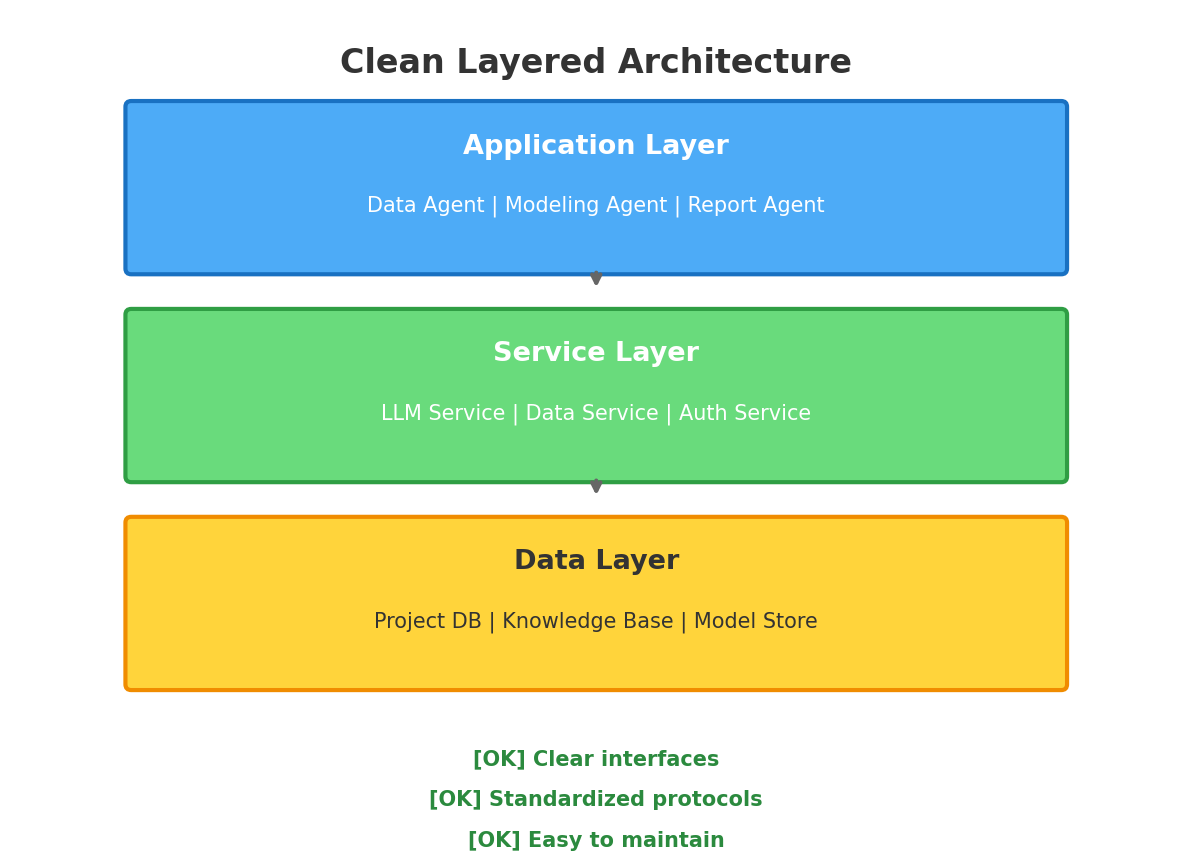
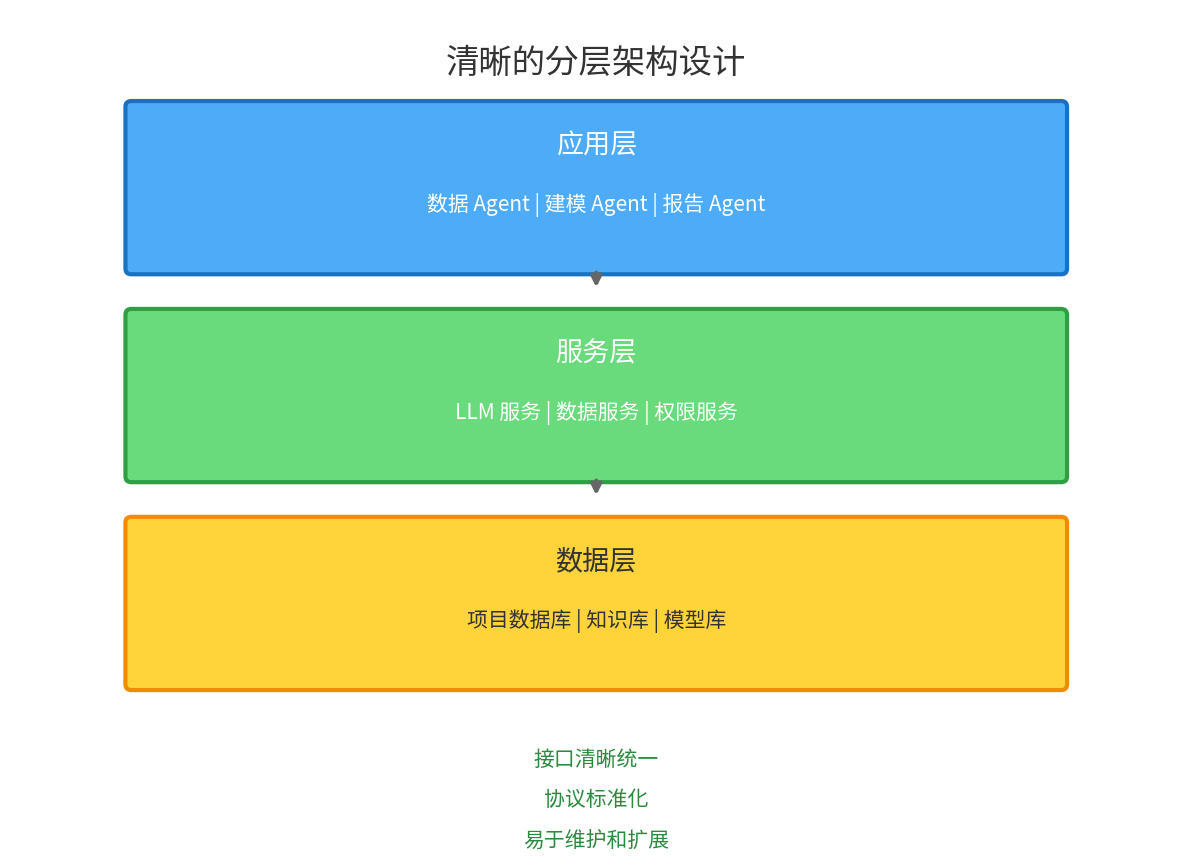
配图改为中文：更新5张插图并修复中文字体
- 使用 Noto Sans CJK 思源黑体显示中文
- 所有文字内容翻译为中文
- 图1: 各自为战的混乱局面
- 图2: 分层架构设计
- 图3: AI时代架构师核心职责
- 图4: 5个核心职责
- 图5: 成功vs失败对比
- 更新配图生成脚本支持中文

diff --git a/articles/assets/generate_figures.py b/articles/assets/generate_figures.py
@@ -1,15 +1,18 @@
 #!/usr/bin/env python3
-"""Generate WeChat article illustrations for OpenClaw Architect article."""
+# -*- coding: utf-8 -*-
+"""生成微信公众号文章配图 - 中文版本"""
 
 import matplotlib.pyplot as plt
 import matplotlib.patches as mpatches
 from matplotlib.patches import FancyBboxPatch, Circle, Rectangle, FancyArrowPatch
+import matplotlib.font_manager as fm
 import numpy as np
 import os
 
-# Set Chinese font
-plt.rcParams['font.sans-serif'] = ['DejaVu Sans', 'SimHei', 'Arial Unicode MS', 'sans-serif']
-plt.rcParams['axes.unicode_minus'] = False
+# 直接加载中文字体文件
+font_path = '/usr/share/fonts/opentype/noto/NotoSansCJK-Regular.ttc'
+chinese_font = fm.FontProperties(fname=font_path)
+chinese_font_bold = fm.FontProperties(fname=font_path, weight='bold')
 
 ASSETS_DIR = "/root/.openclaw/workspace/HEBook/articles/assets"
 
@@ -17,102 +20,102 @@ def save_fig(fig, filename):
     filepath = os.path.join(ASSETS_DIR, filename)
     fig.savefig(filepath, dpi=150, bbox_inches='tight', facecolor='white', edgecolor='none')
     plt.close(fig)
-    print(f"Generated: {filepath}")
+    print(f"已生成: {filepath}")
 
 def fig1_isolated_agents():
-    """图1: 各自为战的混乱局面 - 三个独立的Agent孤岛"""
+    """图1: 各自为战的混乱局面"""
     fig, ax = plt.subplots(1, 1, figsize=(10, 6))
     ax.set_xlim(0, 10)
     ax.set_ylim(0, 6)
     ax.axis('off')
     
-    # Title
-    ax.text(5, 5.5, 'No Architecture = Chaos', fontsize=16, fontweight='bold', 
+    # 标题
+    ax.text(5, 5.5, '缺少架构 = 混乱', fontsize=16, fontproperties=chinese_font_bold, 
             ha='center', color='#333333')
-    ax.text(5, 5.1, 'Three Agents Working in Isolation', fontsize=11, 
-            ha='center', color='#666666')
+    ax.text(5, 5.1, '三个 Agent 各自为战，无法协作', fontsize=11, 
+            fontproperties=chinese_font, ha='center', color='#666666')
     
-    # Agent A - Data Cleaning (left)
+    # Agent A - 数据清洗（左）
     box_a = FancyBboxPatch((0.5, 2.5), 2.2, 2, boxstyle="round,pad=0.05", 
                            facecolor='#FF6B6B', edgecolor='#C92A2A', linewidth=2, alpha=0.9)
     ax.add_patch(box_a)
-    ax.text(1.6, 3.8, 'Agent A', fontsize=12, fontweight='bold', ha='center', color='white')
-    ax.text(1.6, 3.3, 'Data Cleaning', fontsize=10, ha='center', color='white')
-    ax.text(1.6, 2.8, 'Python + CSV', fontsize=9, ha='center', color='#FFE0E0')
+    ax.text(1.6, 3.8, '工程师 A', fontsize=11, fontproperties=chinese_font_bold, ha='center', color='white')
+    ax.text(1.6, 3.3, '数据清洗 Agent', fontsize=10, fontproperties=chinese_font, ha='center', color='white')
+    ax.text(1.6, 2.8, 'Python + CSV 格式', fontsize=9, fontproperties=chinese_font, ha='center', color='#FFE0E0')
     
-    # Agent B - Validation (center)
+    # Agent B - 数据校验（中）
     box_b = FancyBboxPatch((3.8, 2.5), 2.2, 2, boxstyle="round,pad=0.05",
                            facecolor='#4ECDC4', edgecolor='#087F5B', linewidth=2, alpha=0.9)
     ax.add_patch(box_b)
-    ax.text(4.9, 3.8, 'Agent B', fontsize=12, fontweight='bold', ha='center', color='white')
-    ax.text(4.9, 3.3, 'Validation', fontsize=10, ha='center', color='white')
-    ax.text(4.9, 2.8, 'JavaScript + JSON', fontsize=9, ha='center', color='#E0F7F5')
+    ax.text(4.9, 3.8, '工程师 B', fontsize=11, fontproperties=chinese_font_bold, ha='center', color='white')
+    ax.text(4.9, 3.3, '数据校验 Agent', fontsize=10, fontproperties=chinese_font, ha='center', color='white')
+    ax.text(4.9, 2.8, 'JavaScript + JSON', fontsize=9, fontproperties=chinese_font, ha='center', color='#E0F7F5')
     
-    # Agent C - Report (right)
+    # Agent C - 报告生成（右）
     box_c = FancyBboxPatch((7.1, 2.5), 2.2, 2, boxstyle="round,pad=0.05",
                            facecolor='#95E1D3', edgecolor='#2B8A3E', linewidth=2, alpha=0.9)
     ax.add_patch(box_c)
-    ax.text(8.2, 3.8, 'Agent C', fontsize=12, fontweight='bold', ha='center', color='#333')
-    ax.text(8.2, 3.3, 'Report Gen', fontsize=10, ha='center', color='#333')
-    ax.text(8.2, 2.8, 'GPT API + String', fontsize=9, ha='center', color='#555')
+    ax.text(8.2, 3.8, '工程师 C', fontsize=11, fontproperties=chinese_font_bold, ha='center', color='#333')
+    ax.text(8.2, 3.3, '报告生成 Agent', fontsize=10, fontproperties=chinese_font, ha='center', color='#333')
+    ax.text(8.2, 2.8, 'GPT API + 字符串', fontsize=9, fontproperties=chinese_font, ha='center', color='#555')
     
-    # Confusion indicators (crossed lines)
+    # 连接线表示混乱
     ax.annotate('', xy=(3.8, 3.5), xytext=(2.7, 3.5),
                 arrowprops=dict(arrowstyle='<->', color='#FF6B6B', lw=2, ls='--'))
     ax.annotate('', xy=(7.1, 3.5), xytext=(6.0, 3.5),
                 arrowprops=dict(arrowstyle='<->', color='#FF6B6B', lw=2, ls='--'))
     
-    # Warning icons
-    ax.text(1.6, 1.8, 'X Cannot communicate', fontsize=9, ha='center', color='#C92A2A', fontweight='bold')
-    ax.text(4.9, 1.8, 'X Different formats', fontsize=9, ha='center', color='#C92A2A', fontweight='bold')
-    ax.text(8.2, 1.8, 'X No integration', fontsize=9, ha='center', color='#C92A2A', fontweight='bold')
+    # 问题标注
+    ax.text(1.6, 1.8, '数据格式不兼容', fontsize=9, fontproperties=chinese_font_bold, ha='center', color='#C92A2A')
+    ax.text(4.9, 1.8, '无法互相调用', fontsize=9, fontproperties=chinese_font_bold, ha='center', color='#C92A2A')
+    ax.text(8.2, 1.8, '缺乏统一规范', fontsize=9, fontproperties=chinese_font_bold, ha='center', color='#C92A2A')
     
     save_fig(fig, 'fig1_isolated_agents.png')
 
 def fig2_layered_architecture():
-    """图2: 分层架构设计示意图 - 三层架构"""
+    """图2: 分层架构设计示意图"""
     fig, ax = plt.subplots(1, 1, figsize=(10, 7))
     ax.set_xlim(0, 10)
     ax.set_ylim(0, 7)
     ax.axis('off')
     
-    # Title
-    ax.text(5, 6.5, 'Clean Layered Architecture', fontsize=16, fontweight='bold', 
+    # 标题
+    ax.text(5, 6.5, '清晰的分层架构设计', fontsize=16, fontproperties=chinese_font_bold, 
             ha='center', color='#333333')
     
-    # Layer 3: Application Layer
+    # 应用层
     layer3 = FancyBboxPatch((1, 4.8), 8, 1.4, boxstyle="round,pad=0.05",
                             facecolor='#4DABF7', edgecolor='#1971C2', linewidth=2)
     ax.add_patch(layer3)
-    ax.text(5, 5.8, 'Application Layer', fontsize=13, fontweight='bold', ha='center', color='white')
-    ax.text(5, 5.3, 'Data Agent | Modeling Agent | Report Agent', fontsize=10, ha='center', color='white')
+    ax.text(5, 5.8, '应用层', fontsize=13, fontproperties=chinese_font_bold, ha='center', color='white')
+    ax.text(5, 5.3, '数据 Agent | 建模 Agent | 报告 Agent', fontsize=10, fontproperties=chinese_font, ha='center', color='white')
     
-    # Arrow down
+    # 箭头
     ax.annotate('', xy=(5, 4.6), xytext=(5, 4.8),
                 arrowprops=dict(arrowstyle='->', color='#666', lw=2))
     
-    # Layer 2: Service Layer
+    # 服务层
     layer2 = FancyBboxPatch((1, 3.0), 8, 1.4, boxstyle="round,pad=0.05",
                             facecolor='#69DB7C', edgecolor='#2F9E44', linewidth=2)
     ax.add_patch(layer2)
-    ax.text(5, 4.0, 'Service Layer', fontsize=13, fontweight='bold', ha='center', color='white')
-    ax.text(5, 3.5, 'LLM Service | Data Service | Auth Service', fontsize=10, ha='center', color='white')
+    ax.text(5, 4.0, '服务层', fontsize=13, fontproperties=chinese_font_bold, ha='center', color='white')
+    ax.text(5, 3.5, 'LLM 服务 | 数据服务 | 权限服务', fontsize=10, fontproperties=chinese_font, ha='center', color='white')
     
-    # Arrow down
+    # 箭头
     ax.annotate('', xy=(5, 2.8), xytext=(5, 3.0),
                 arrowprops=dict(arrowstyle='->', color='#666', lw=2))
     
-    # Layer 1: Data Layer
+    # 数据层
     layer1 = FancyBboxPatch((1, 1.2), 8, 1.4, boxstyle="round,pad=0.05",
                             facecolor='#FFD43B', edgecolor='#F08C00', linewidth=2)
     ax.add_patch(layer1)
-    ax.text(5, 2.2, 'Data Layer', fontsize=13, fontweight='bold', ha='center', color='#333')
-    ax.text(5, 1.7, 'Project DB | Knowledge Base | Model Store', fontsize=10, ha='center', color='#333')
+    ax.text(5, 2.2, '数据层', fontsize=13, fontproperties=chinese_font_bold, ha='center', color='#333')
+    ax.text(5, 1.7, '项目数据库 | 知识库 | 模型库', fontsize=10, fontproperties=chinese_font, ha='center', color='#333')
     
-    # Benefits
-    benefits = ['[OK] Clear interfaces', '[OK] Standardized protocols', '[OK] Easy to maintain']
+    # 优势
+    benefits = ['接口清晰统一', '协议标准化', '易于维护和扩展']
     for i, benefit in enumerate(benefits):
-        ax.text(5, 0.5 - i*0.35, benefit, fontsize=10, ha='center', color='#2B8A3E', fontweight='bold')
+        ax.text(5, 0.5 - i*0.35, benefit, fontsize=10, fontproperties=chinese_font_bold, ha='center', color='#2B8A3E')
     
     save_fig(fig, 'fig2_layered_architecture.png')
 
@@ -123,39 +126,38 @@ def fig3_architect_responsibilities():
     ax.set_ylim(0, 7)
     ax.axis('off')
     
-    # Title
-    ax.text(5, 6.5, 'AI Era: Architect is More Critical Than Ever', fontsize=16, 
-            fontweight='bold', ha='center', color='#333333')
+    # 标题
+    ax.text(5, 6.5, 'AI 时代：架构师更加重要', fontsize=16, 
+            fontproperties=chinese_font_bold, ha='center', color='#333333')
     
-    # Central circle - Architect
+    # 中心圆 - 架构师
     center_circle = Circle((5, 3.5), 1.2, facecolor='#7950F2', edgecolor='#5F3DC4', linewidth=3)
     ax.add_patch(center_circle)
-    ax.text(5, 3.7, 'ARCHITECT', fontsize=11, fontweight='bold', ha='center', color='white')
-    ax.text(5, 3.2, 'Decision Maker', fontsize=9, ha='center', color='#E0D4FC')
+    ax.text(5, 3.7, '架构师', fontsize=12, fontproperties=chinese_font_bold, ha='center', color='white')
+    ax.text(5, 3.2, '决策者', fontsize=9, fontproperties=chinese_font, ha='center', color='#E0D4FC')
     
-    # Surrounding responsibilities
+    # 周围职责
     responsibilities = [
-        ('System\nIntegration', 2, 5.5, '#FF6B6B'),
-        ('Security &\nCompliance', 8, 5.5, '#4ECDC4'),
-        ('Quality\nStandards', 1.2, 3.5, '#FFD93D'),
-        ('Tech\nSelection', 8.8, 3.5, '#6BCF7F'),
-        ('Long-term\nMaintenance', 2, 1.5, '#A78BFA'),
-        ('Team\nEnablement', 8, 1.5, '#FF8F8F'),
+        ('系统\n集成', 2, 5.5, '#FF6B6B'),
+        ('安全\n合规', 8, 5.5, '#4ECDC4'),
+        ('质量\n标准', 1.2, 3.5, '#FFD93D'),
+        ('技术\n选型', 8.8, 3.5, '#6BCF7F'),
+        ('长期\n维护', 2, 1.5, '#A78BFA'),
+        ('团队\n赋能', 8, 1.5, '#FF8F8F'),
     ]
     
     for text, x, y, color in responsibilities:
-        # Draw small circle
         small_circle = Circle((x, y), 0.7, facecolor=color, edgecolor='white', linewidth=2)
         ax.add_patch(small_circle)
-        ax.text(x, y, text, fontsize=8, ha='center', va='center', color='white', fontweight='bold')
+        ax.text(x, y, text, fontsize=9, fontproperties=chinese_font_bold, ha='center', va='center', color='white')
         
-        # Draw connection to center
+        # 连接线
         ax.annotate('', xy=(5 + (x-5)*0.25, 3.5 + (y-3.5)*0.25), xytext=(x, y),
                     arrowprops=dict(arrowstyle='->', color='#999', lw=1.5, connectionstyle='arc3,rad=0.1'))
     
-    # Bottom text
-    ax.text(5, 0.5, 'AI Writes Code -> Architect Makes It Work', fontsize=12, 
-            ha='center', color='#5F3DC4', fontweight='bold')
+    # 底部文字
+    ax.text(5, 0.5, 'AI 写代码 - 架构师确保系统可用', fontsize=12, 
+            fontproperties=chinese_font_bold, ha='center', color='#5F3DC4')
     
     save_fig(fig, 'fig3_architect_responsibilities.png')
 
@@ -166,36 +168,36 @@ def fig4_five_responsibilities():
     ax.set_ylim(0, 7)
     ax.axis('off')
     
-    # Title
-    ax.text(5, 6.5, "Architect's 5 Core Responsibilities", fontsize=16, 
-            fontweight='bold', ha='center', color='#333333')
+    # 标题
+    ax.text(5, 6.5, "架构师的 5 个核心职责", fontsize=16, 
+            fontproperties=chinese_font_bold, ha='center', color='#333333')
     
-    # Pentagon layout for 5 responsibilities
+    # 5个职责
     responsibilities = [
-        ('Architecture\nDesign', '#FF6B6B', 'From "works" to "works well"'),
-        ('Technology\nSelection', '#4ECDC4', 'Avoid "choice disasters"'),
-        ('Security &\nCompliance', '#FFD93D', 'Guard the bottom line'),
-        ('Quality\nStandards', '#6BCF7F', 'AI code needs review too'),
-        ('Team\nEnablement', '#A78BFA', 'Make everyone effective'),
+        ('架构\n设计', '#FF6B6B', '从"能用"到"好用"'),
+        ('技术\n选型', '#4ECDC4', '避免"选型灾难"'),
+        ('安全\n合规', '#FFD93D', '守住底线'),
+        ('质量\n标准', '#6BCF7F', 'AI 代码也要审查'),
+        ('团队\n赋能', '#A78BFA', '让每个人都能用好 AI'),
     ]
     
     positions = [(2, 4.5), (5, 5.5), (8, 4.5), (7, 1.8), (3, 1.8)]
     
     for i, ((title, color, desc), (x, y)) in enumerate(zip(responsibilities, positions)):
-        # Draw box
+        # 方框
         box = FancyBboxPatch((x-0.9, y-0.6), 1.8, 1.2, boxstyle="round,pad=0.05",
                              facecolor=color, edgecolor='white', linewidth=2, alpha=0.95)
         ax.add_patch(box)
         
-        # Number badge
+        # 序号徽章
         num_circle = Circle((x-0.6, y+0.3), 0.2, facecolor='white', edgecolor=color, linewidth=2)
         ax.add_patch(num_circle)
         ax.text(x-0.6, y+0.3, str(i+1), fontsize=10, ha='center', va='center', 
                 color=color, fontweight='bold')
         
-        # Title and desc
-        ax.text(x, y+0.1, title, fontsize=9, ha='center', va='center', color='white', fontweight='bold')
-        ax.text(x, y-1.1, desc, fontsize=8, ha='center', va='top', color='#555')
+        # 标题和描述
+        ax.text(x, y+0.1, title, fontsize=10, fontproperties=chinese_font_bold, ha='center', va='center', color='white')
+        ax.text(x, y-1.1, desc, fontsize=9, fontproperties=chinese_font, ha='center', va='top', color='#555')
     
     save_fig(fig, 'fig4_five_responsibilities.png')
 
@@ -206,74 +208,70 @@ def fig5_success_vs_failure():
     ax.set_ylim(0, 7)
     ax.axis('off')
     
-    # Title
-    ax.text(6, 6.5, 'With vs Without Architect: AI Transformation Outcomes', fontsize=16, 
-            fontweight='bold', ha='center', color='#333333')
+    # 标题
+    ax.text(6, 6.5, '有架构师 vs 无架构师：AI 转型结果对比', fontsize=16, 
+            fontproperties=chinese_font_bold, ha='center', color='#333333')
     
-    # Left side - FAILURE (No Architect)
-    ax.text(3, 5.8, 'WITHOUT ARCHITECT', fontsize=13, fontweight='bold', 
+    # 左侧 - 失败（无架构师）
+    ax.text(3, 5.8, '无 架 构 师', fontsize=13, fontproperties=chinese_font_bold, 
             ha='center', color='#C92A2A')
     
     failure_steps = [
-        ('Month 1', 'Chaos begins', '#FF8787'),
-        ('Month 3', 'Tech debt explodes', '#FF6B6B'),
-        ('Month 6', 'Security crisis', '#FA5252'),
-        ('Month 9', 'Project fails', '#E03131'),
+        ('第 1 月', '混乱开始', '#FF8787'),
+        ('第 3 月', '技术债爆发', '#FF6B6B'),
+        ('第 6 月', '安全危机', '#FA5252'),
+        ('第 9 月', '项目失败', '#E03131'),
     ]
     
     for i, (month, desc, color) in enumerate(failure_steps):
         y = 4.8 - i * 1.1
-        # Box
         box = FancyBboxPatch((1, y-0.35), 4, 0.7, boxstyle="round,pad=0.02",
                              facecolor=color, edgecolor='white', linewidth=1, alpha=0.9)
         ax.add_patch(box)
-        ax.text(3, y+0.1, month, fontsize=10, ha='center', color='white', fontweight='bold')
-        ax.text(3, y-0.15, desc, fontsize=9, ha='center', color='white')
+        ax.text(3, y+0.1, month, fontsize=10, fontproperties=chinese_font_bold, ha='center', color='white')
+        ax.text(3, y-0.15, desc, fontsize=9, fontproperties=chinese_font, ha='center', color='white')
         
-        # Arrow down
         if i < len(failure_steps) - 1:
             ax.annotate('', xy=(3, y-0.45), xytext=(3, y-0.7),
                         arrowprops=dict(arrowstyle='->', color='#C92A2A', lw=2))
     
-    ax.text(3, 0.5, 'Result: Project abandoned\nLoss: 9 months + opportunity', 
-            fontsize=10, ha='center', color='#C92A2A', fontweight='bold')
+    ax.text(3, 0.5, '结果：项目放弃\n损失：9个月 + 错失机会', 
+            fontsize=10, fontproperties=chinese_font_bold, ha='center', color='#C92A2A')
     
-    # Divider
+    # 分隔线
     ax.plot([6, 6], [0.5, 6], '--', color='#CCC', linewidth=2)
     
-    # Right side - SUCCESS (With Architect)
-    ax.text(9, 5.8, 'WITH ARCHITECT', fontsize=13, fontweight='bold', 
+    # 右侧 - 成功（有架构师）
+    ax.text(9, 5.8, '有 架 构 师', fontsize=13, fontproperties=chinese_font_bold, 
             ha='center', color='#2F9E44')
     
     success_steps = [
-        ('Week 1', 'Architecture design', '#69DB7C'),
-        ('Month 1', 'Standards set', '#51CF66'),
-        ('Month 2', 'Team aligned', '#40C057'),
-        ('Month 4', 'System live!', '#2F9E44'),
+        ('第 1 周', '架构设计', '#69DB7C'),
+        ('第 1 月', '规范制定', '#51CF66'),
+        ('第 2 月', '团队对齐', '#40C057'),
+        ('第 4 月', '系统上线', '#2F9E44'),
     ]
     
     for i, (month, desc, color) in enumerate(success_steps):
         y = 4.8 - i * 1.1
-        # Box
         box = FancyBboxPatch((7, y-0.35), 4, 0.7, boxstyle="round,pad=0.02",
                              facecolor=color, edgecolor='white', linewidth=1, alpha=0.9)
         ax.add_patch(box)
-        ax.text(9, y+0.1, month, fontsize=10, ha='center', color='white', fontweight='bold')
-        ax.text(9, y-0.15, desc, fontsize=9, ha='center', color='white')
+        ax.text(9, y+0.1, month, fontsize=10, fontproperties=chinese_font_bold, ha='center', color='white')
+        ax.text(9, y-0.15, desc, fontsize=9, fontproperties=chinese_font, ha='center', color='white')
         
-        # Arrow down
         if i < len(success_steps) - 1:
             ax.annotate('', xy=(9, y-0.45), xytext=(9, y-0.7),
                         arrowprops=dict(arrowstyle='->', color='#2F9E44', lw=2))
     
-    ax.text(9, 0.5, 'Result: Success in 4 months\nROI: Efficiency unlocked', 
-            fontsize=10, ha='center', color='#2F9E44', fontweight='bold')
+    ax.text(9, 0.5, '结果：4个月成功上线\n收益：效率全面提升', 
+            fontsize=10, fontproperties=chinese_font_bold, ha='center', color='#2F9E44')
     
     save_fig(fig, 'fig5_success_vs_failure.png')
 
 if __name__ == '__main__':
     os.makedirs(ASSETS_DIR, exist_ok=True)
-    print("Generating WeChat article illustrations...")
+    print("正在生成中文配图...")
     
     fig1_isolated_agents()
     fig2_layered_architecture()
@@ -281,5 +279,5 @@ if __name__ == '__main__':
     fig4_five_responsibilities()
     fig5_success_vs_failure()
     
-    print("\nAll illustrations generated successfully!")
-    print(f"Location: {ASSETS_DIR}")
+    print("\n所有中文配图生成完成！")
+    print(f"保存位置: {ASSETS_DIR}")
